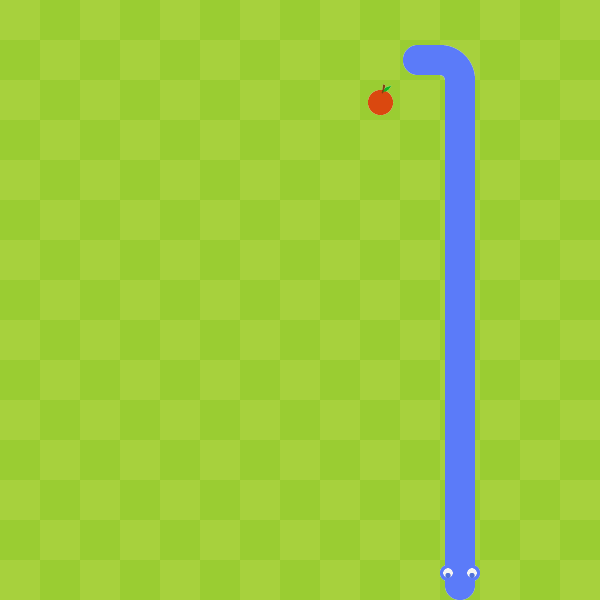
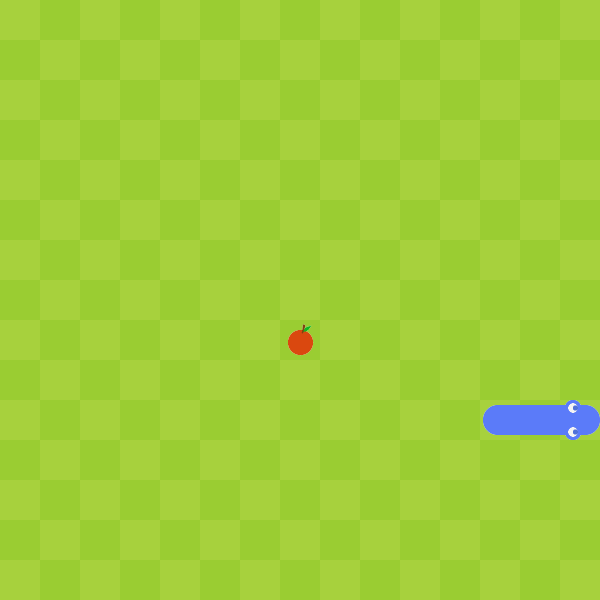
dodanie najlepszych wynikow

Changed region(s): [[0.66, 0.06, 1.0, 1.0], [0.6, 0.12, 0.66, 0.21], [0.48, 0.54, 0.54, 0.6]]

diff --git a/game.py b/game.py
@@ -2,9 +2,10 @@ import arcade
 import constants
 import fruits
 import snake
+import bestscores
 from arcade.gui import UIManager
 
-
+BEST_SCORES = []
 class GameView(arcade.View):
     def __init__(self):
         super().__init__()
@@ -82,7 +83,7 @@ class GameView(arcade.View):
         self.snake_list.eating = True
 
     def draw_score(self):
-        score_text = f"Score: {self.score}"
+        score_text = "score: {}".format(self.score)
         arcade.draw_text(score_text, 10, constants.SCREEN_HEIGHT - constants.CELL_SIZE, arcade.csscolor.BLACK, 25)
 
     def game_over(self):
@@ -90,17 +91,30 @@ class GameView(arcade.View):
         image = arcade.draw_commands.get_image(x=0, y=0,
                  width=constants.SCREEN_WIDTH, height=constants.SCREEN_HEIGHT - constants.CELL_SIZE)
         image.save("Graphics/lastmove.png", "PNG")
-        game_over_view = GameOverView()
+        game_over_view = GameOverView(self.score)
         game_over_view.setup()
         self.window.show_view(game_over_view)
+        self.update_best_scores()
+        
 
+    def update_best_scores(self):
+        if len(BEST_SCORES) < 3:
+            BEST_SCORES.append(self.score)
+            return
+        for score in BEST_SCORES:
+            if self.score > score:
+                BEST_SCORES.remove(score)
+                BEST_SCORES.append(self.score)
+                return
+                    
 
 class GameOverView(arcade.View):
-    def __init__(self):
+    def __init__(self, score):
         super().__init__()
         self.ui_manager = UIManager()
         arcade.cleanup_texture_cache()
         self.texture = arcade.load_texture("Graphics/lastmove.png")
+        self.score = score
         
 
     def on_hide_view(self):
@@ -117,8 +131,8 @@ class GameOverView(arcade.View):
                 )
         self.ui_manager.add_ui_element(button1)
 
-        button2 = ExitButton(
-                'Exit',
+        button2 = BestScoresButton(
+                'Best scores',
                 center_x=300,
                 center_y=250,
                 width=250,
@@ -126,12 +140,22 @@ class GameOverView(arcade.View):
                 )
         self.ui_manager.add_ui_element(button2)
 
+        button3 = ExitButton(
+                'Exit',
+                center_x=300,
+                center_y=200,
+                width=250,
+                height=40
+                )
+        self.ui_manager.add_ui_element(button3)
+
 
     def on_draw(self):
         arcade.start_render()
         self.texture.draw_sized(constants.SCREEN_WIDTH/2,
         (constants.SCREEN_HEIGHT-constants.CELL_SIZE)/2, constants.SCREEN_WIDTH, constants.SCREEN_HEIGHT -constants.CELL_SIZE)
         arcade.draw_text("GAME OVER", 150, 350, arcade.color.BLACK, font_size=50)
+        arcade.draw_text("score: {}".format(self.score), 260, 330, arcade.color.BLACK, font_size=20)
 
 class PlayAgainButton(arcade.gui.UIFlatButton):
     def on_click(self):
@@ -139,6 +163,13 @@ class PlayAgainButton(arcade.gui.UIFlatButton):
         game_view.setup()
         game_view.window.show_view(game_view)
 
+class BestScoresButton(arcade.gui.UIFlatButton):
+    def on_click(self):
+        bestscores_view = bestscores.BestScoresView(BEST_SCORES)
+        bestscores_view.window.show_view(bestscores_view)
+
+
 class ExitButton(arcade.gui.UIFlatButton):
     def on_click(self):
         arcade.close_window()
+

diff --git a/menu.py b/menu.py
@@ -19,7 +19,7 @@ class MenuView(arcade.View):
         button1 = StartButton(
                 'Start',
                 center_x=300,
-                center_y=320,
+                center_y=270,
                 width=250,
                 height=60
                 )
@@ -28,38 +28,29 @@ class MenuView(arcade.View):
         button2 = GameRulesButton(
                 'Game rules',
                 center_x=300,
-                center_y=250,
+                center_y=200,
                 width=250,
                 height=40
                 )
         self.ui_manager.add_ui_element(button2)
 
-        button3 = BestScoresButton(
-                'Best scores',
-                center_x=300,
-                center_y=200,
-                width=250,
-                height=40
-                )
-        self.ui_manager.add_ui_element(button3)
-
-        button4 = AboutAuthorButton(
+        button3 = AboutAuthorButton(
                 'About author',
                 center_x=300,
                 center_y=150,
                 width=250,
                 height=40
                 )
-        self.ui_manager.add_ui_element(button4)
+        self.ui_manager.add_ui_element(button3)
 
-        button5 = ExitButton(
+        button4 = ExitButton(
                 'Exit',
                 center_x=300,
                 center_y=100,
                 width=250,
                 height=40
                 )
-        self.ui_manager.add_ui_element(button5)
+        self.ui_manager.add_ui_element(button4)
 
     def on_show(self):
         arcade.set_background_color(arcade.color.BLACK)
@@ -81,11 +72,6 @@ class GameRulesButton(arcade.gui.UIFlatButton):
     def on_click(self):
         pass
         #widok z zasadami
-
-class BestScoresButton(arcade.gui.UIFlatButton):
-    def on_click(self):
-        pass
-        #widok z najlepszymi wynikami
 
 class AboutAuthorButton(arcade.gui.UIFlatButton):
     def on_click(self):

diff --git a/bestscores.py b/bestscores.py
@@ -1,0 +1,17 @@
+import arcade
+from arcade.gui import UIManager
+
+class BestScoresView(arcade.View):
+    def __init__(self, best_scores):
+        super().__init__()
+        self.best_scores = best_scores
+        self.ui_manager = UIManager()
+
+    def on_show(self):
+        arcade.set_background_color(arcade.color.BLACK)
+
+    def on_draw(self):
+        arcade.start_render()
+        for index, score in enumerate(sorted(self.best_scores, reverse = True)):
+            arcade.draw_text(("{}. {}".format(index + 1, score)), 150, 300 - index * 50, arcade.color.WHITE, font_size=50)
+        
